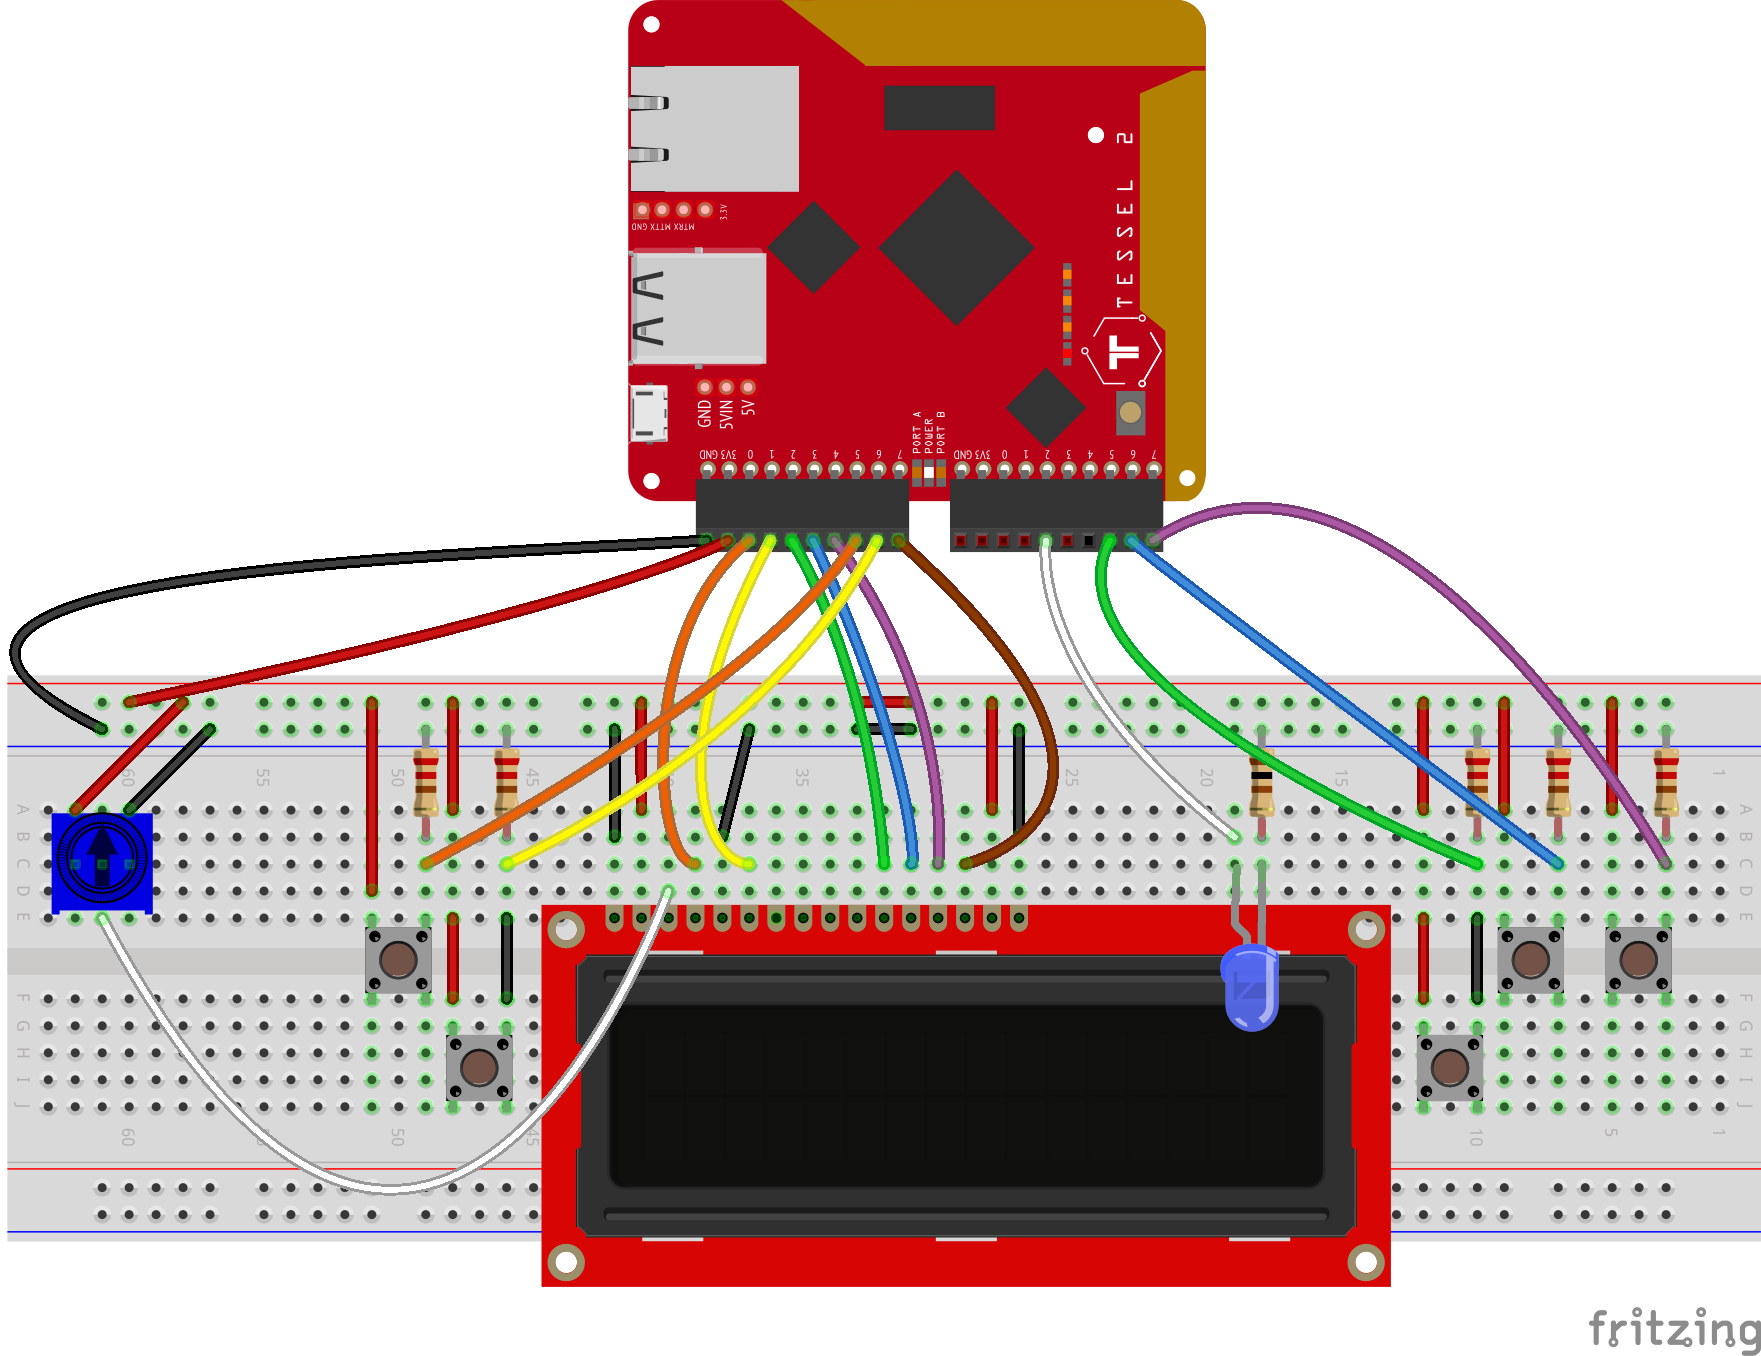
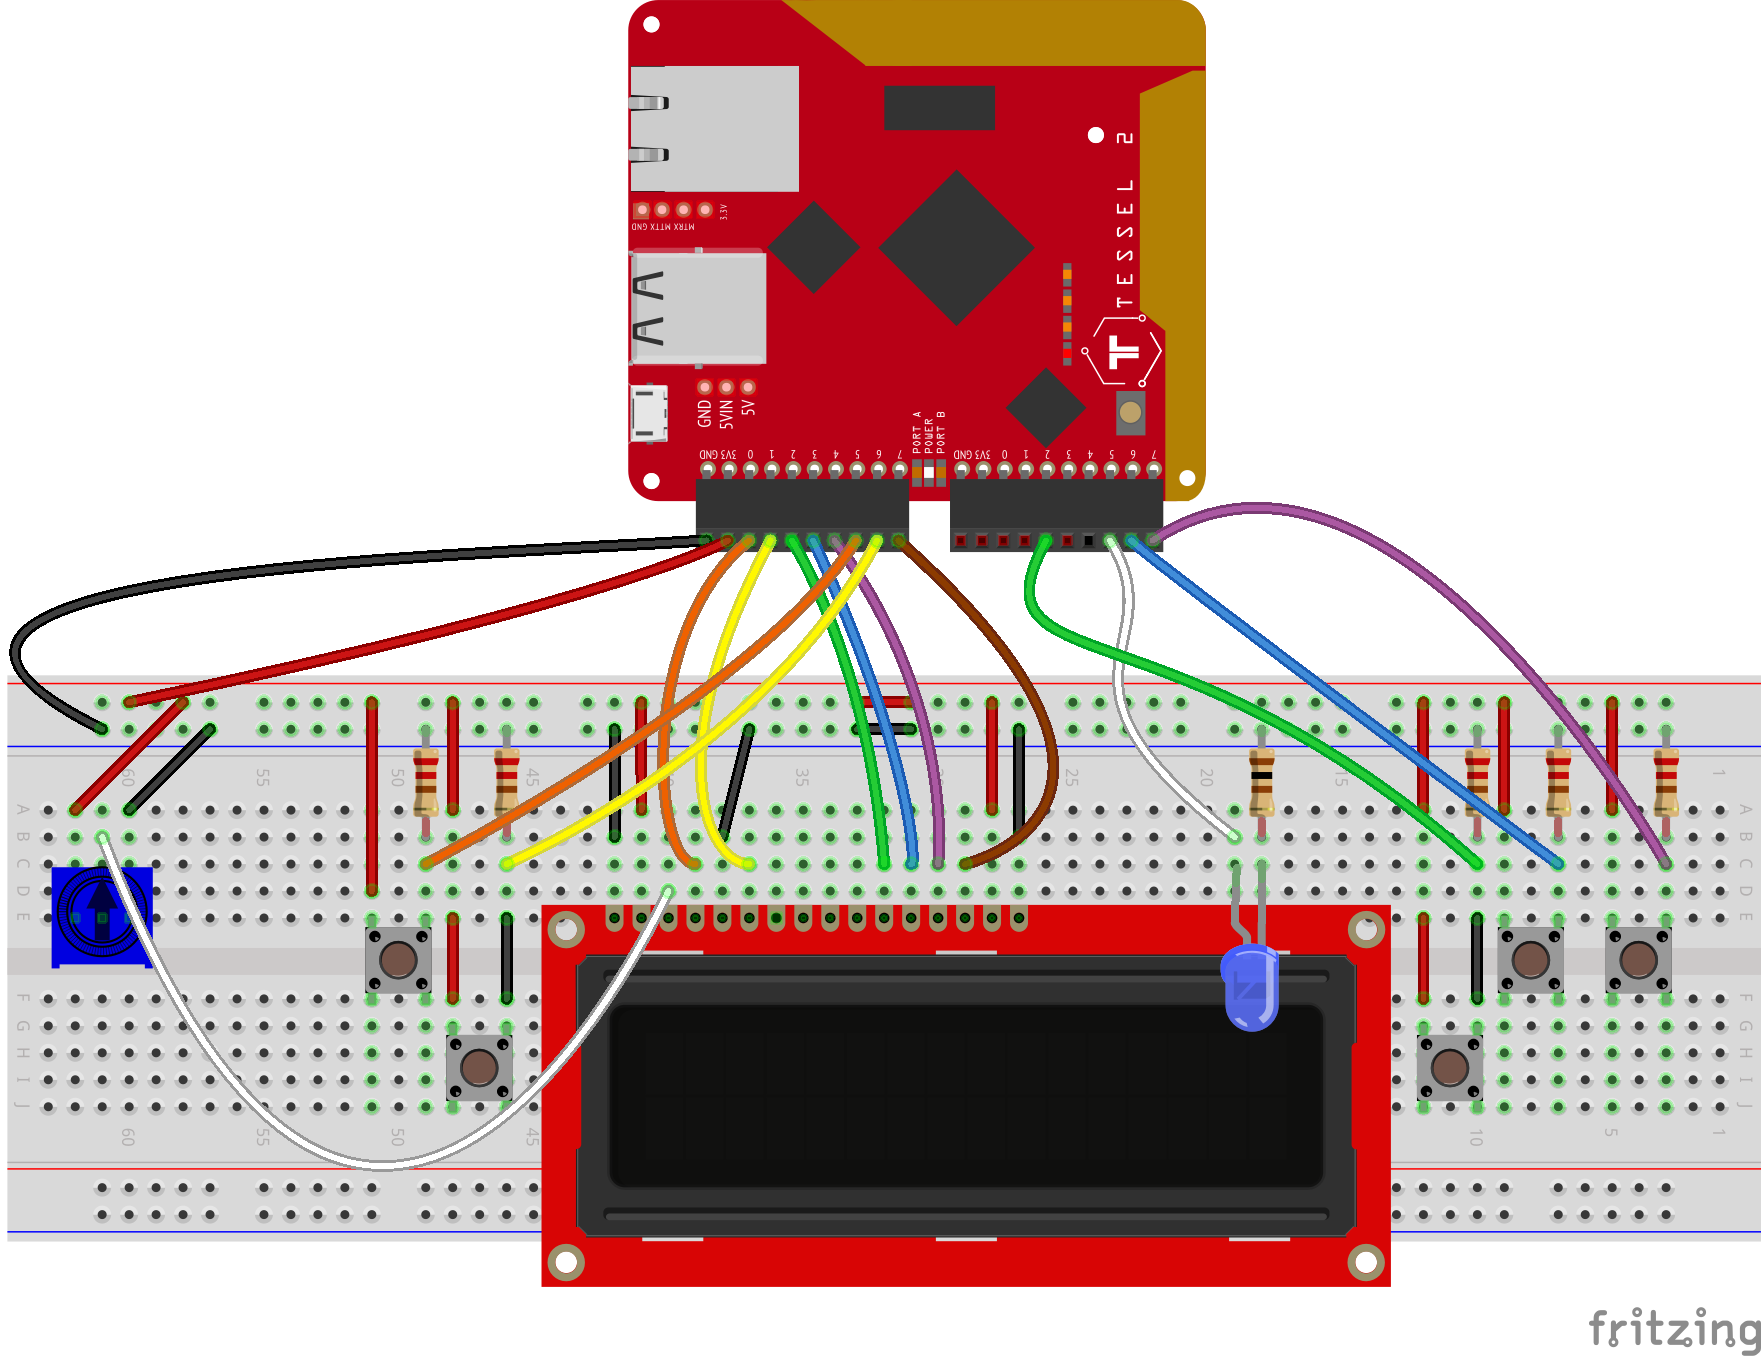
Fix pin references, fritzing

diff --git a/config-tessel.js b/config-tessel.js
@@ -8,11 +8,11 @@ module.exports = {
   }),
   pins: {
     goBtn: 'b2',
-    otherBtn: 'b5',
+    otherBtn: 'a6',
     downBtn: 'b6',
     upBtn: 'b7',
-    led: 'a5',
-    metaBtn: 'a6',
+    led: 'b5',
+    metaBtn: 'a5',
     lcd: ['a0', 'a1', 'a2', 'a3', 'a4', 'a7']
   }
 };

diff --git a/main.js b/main.js
@@ -1,5 +1,5 @@
 'use strict';
-const config = require('./config');
+const config = require('./config-tessel');
 const five = require('johnny-five');
 
 const board = config.board || new five.Board();

diff --git a/README.md b/README.md
@@ -5,6 +5,19 @@ Scratching a little itch I have about simple Pomodoro timers. This code will run
 * Tessel 2
 * Raspberry Pi 3 (coming soon)
 
+### Wiring
+
+You'll need:
+
+* 3.3V _or_ 5V basic LCD display (depending on your device's logic-level voltage)
+* 5 pushbuttons
+* 5 10kΩ resistors
+* 1 standard LED
+* 1 100Ω (3.3V devices) or 220Ω (5v devices) resistor
+* 1 10kΩ potentiometer
+* A breadboard or two
+* A whole grip of jumper wires
+
 ## Install and Use
 
 1. Clone/fork/download/whatever repo
@@ -40,16 +53,3 @@ _Note_: To run this on an Edison, I recommend that you clone this repo _to the E
 1. Edit `main.js` to use `config-edison.js`
 1. Make sure your components are plugged into the pins declared in `config-edison.js`
 1. `node main.js` (run this on the Edison)
-
-### Wiring
-
-You'll need:
-
-* 5V basic LCD display
-* 5 pushbuttons
-* 5 10kΩ resistors
-* 1 LED
-* 1 220Ω resistor
-* 1 10kΩ potentiometer
-* A breadboard or two
-* A whole grip of jumper wires
